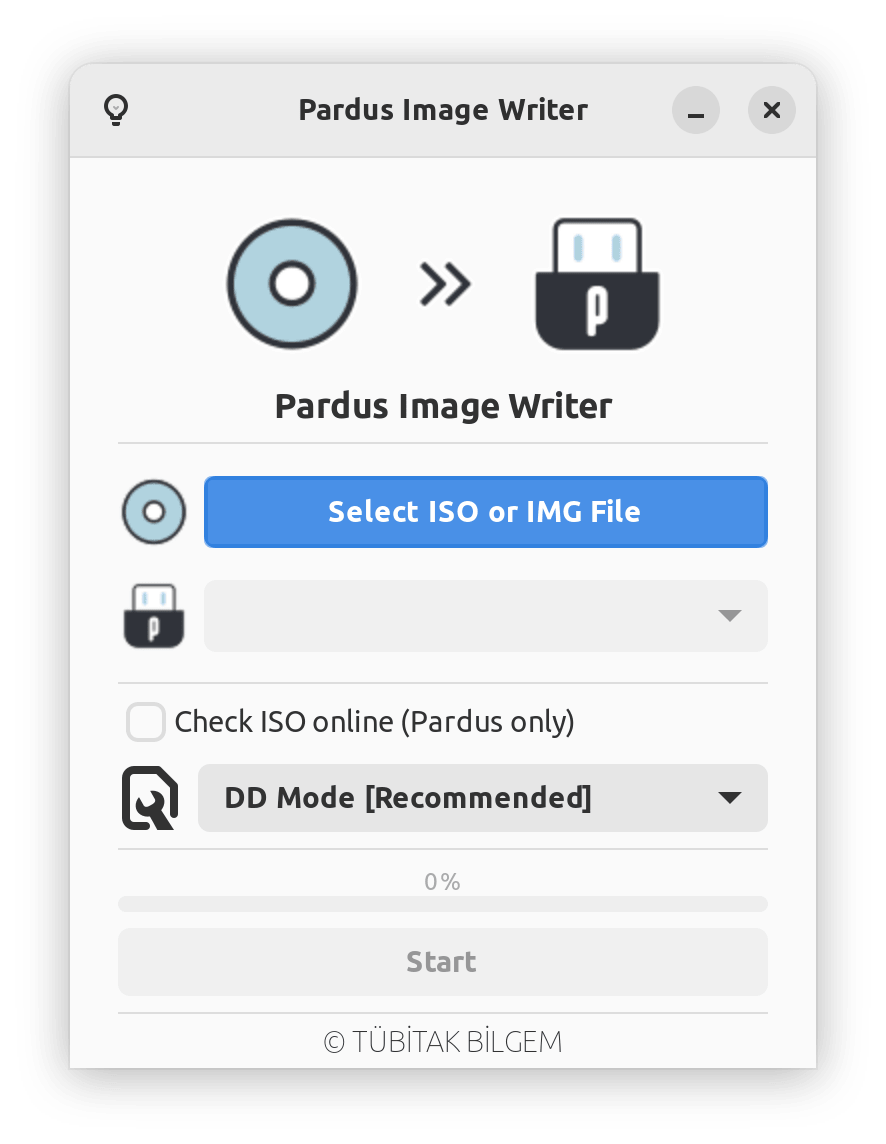
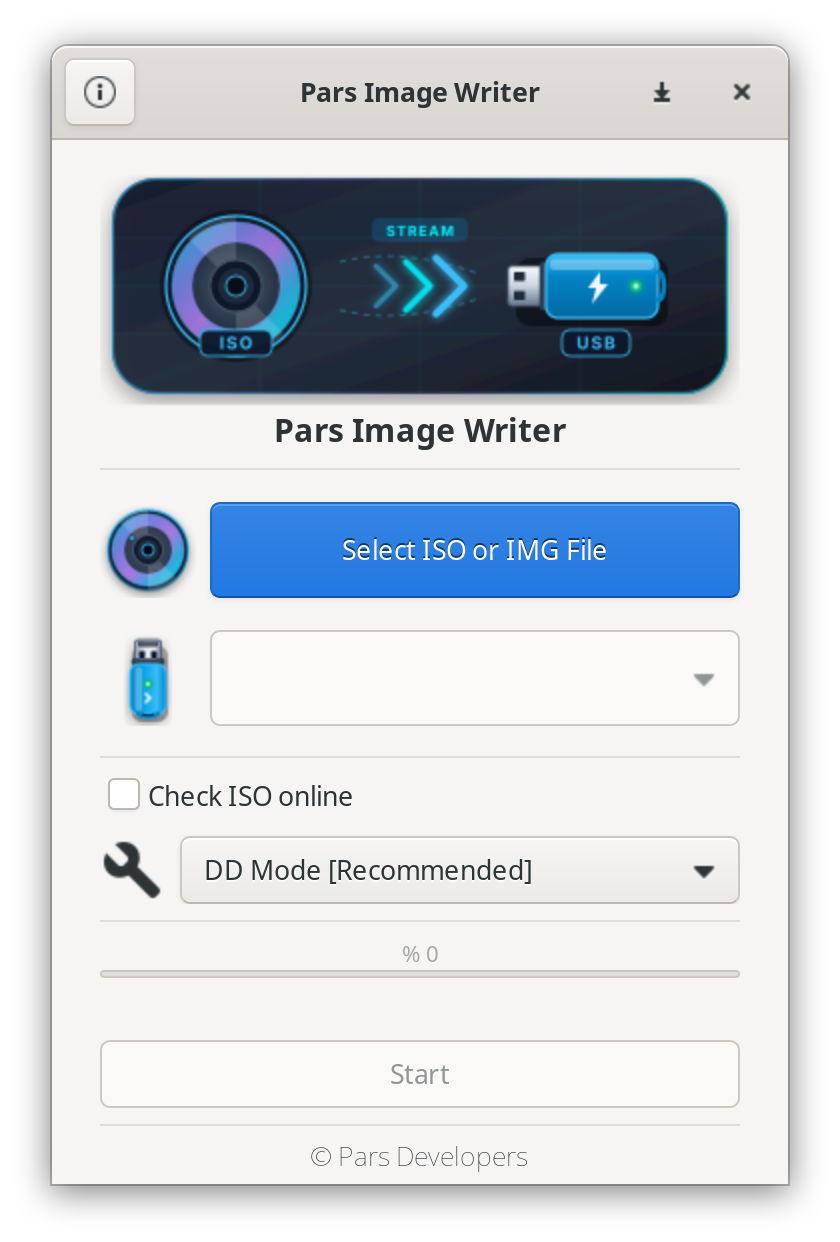
feat: Replace screenshots with HiDPI Pars UI & remove all legacy institution labels

diff --git a/docs/progress.md b/docs/progress.md
@@ -106,6 +106,9 @@ Bu belge, **Pars Image Writer** projesinin geliştirme aşamalarını, tamamlana
   - Kod tabanı, dokümantasyon ve örnek komutlardaki tüm miras dağıtım kalıntıları ve atıfları temizlendi (kod genelinde 0 referans).
   - Projenin kökenini, GPL-3.0 lisans uyumunu, mimari ayrışma ve gelişim tablosunu belgeleyen `docs/FORK.md` ve kök dizin `FORK.md` oluşturuldu.
   - `README.md` dokümantasyon haritasına bağlandı.
+- [x] **Yepyeni HiDPI Ekran Görüntüleri & Arayüz Telif Etiketi Temizliği**:
+  - `ui/MainWindow.glade` içerisindeki eski miras kurum etiketi `© Pars Developers` olarak güncellendi.
+  - `screenshots/pars-image-writer-1.png` (Ana Ekran) ve `screenshots/pars-image-writer-2.png` (Canlı %65 Yazma İşlemi) 2x HiDPI çözünürlükte baştan üretildi; eski arayüz ekran görüntüleri tamamen kaldırıldı.
 
 ---
 

diff --git a/FORK.md b/FORK.md
@@ -2,4 +2,4 @@
 
 Detaylı çatallanma beyannamesi, motivasyonlar ve mimari ayrışma raporu için lütfen [docs/FORK.md](docs/FORK.md) belgesini inceleyin.
 
-This project is an advanced, modernized fork of `pardus-image-writer` under the GNU General Public License v3.0 (GPL-3.0). For detailed lineage, architectural divergence, and modern enhancements, see [docs/FORK.md](docs/FORK.md).
+This project is an advanced, modernized fork of the Linux image-writer codebase under the GNU General Public License v3.0 (GPL-3.0). For detailed lineage, architectural divergence, and modern enhancements, see [docs/FORK.md](docs/FORK.md).

diff --git a/docs/FORK.md b/docs/FORK.md
@@ -6,7 +6,7 @@ Bu belge; **Pars Image Writer** projesinin kökenini, çatallanma (fork) gerekç
 
 ## 📌 1. Projenin Kökeni (Upstream Origin)
 
-**Pars Image Writer**, başlangıçta TÜBİTAK/ULAKBİM bünyesinde geliştirilen açık kaynaklı `pardus-image-writer` yazılımından türetilmiştir (fork edilmiştir). 
+**Pars Image Writer**, açık kaynaklı GNU/Linux ekosistemindeki disk kalıbı yazıcı temelinden türetilmiş ve bağımsız Pars Linux projesine uyarlanmıştır. 
 
 * **Orijinal Lisans:** GNU General Public License v3.0 (GPL-3.0)
 * **Mevcut Lisans:** GNU General Public License v3.0 (GPL-3.0)

diff --git a/README.md b/README.md
@@ -37,9 +37,9 @@
 
 <div align="center">
 
-| Ana Yazma Ekranı | İşlem Tamamlandı |
+| Ana Ekran (Seçim Modu) | Canlı Yazma İşlemi (%65) |
 |:---:|:---:|
-| ![Ana Ekran](screenshots/pars-image-writer-1.png) | ![Bitiş Ekranı](screenshots/pars-image-writer-2.png) |
+| ![Ana Ekran](screenshots/pars-image-writer-1.png) | ![Yazma İşlemi](screenshots/pars-image-writer-2.png) |
 
 </div>
 
